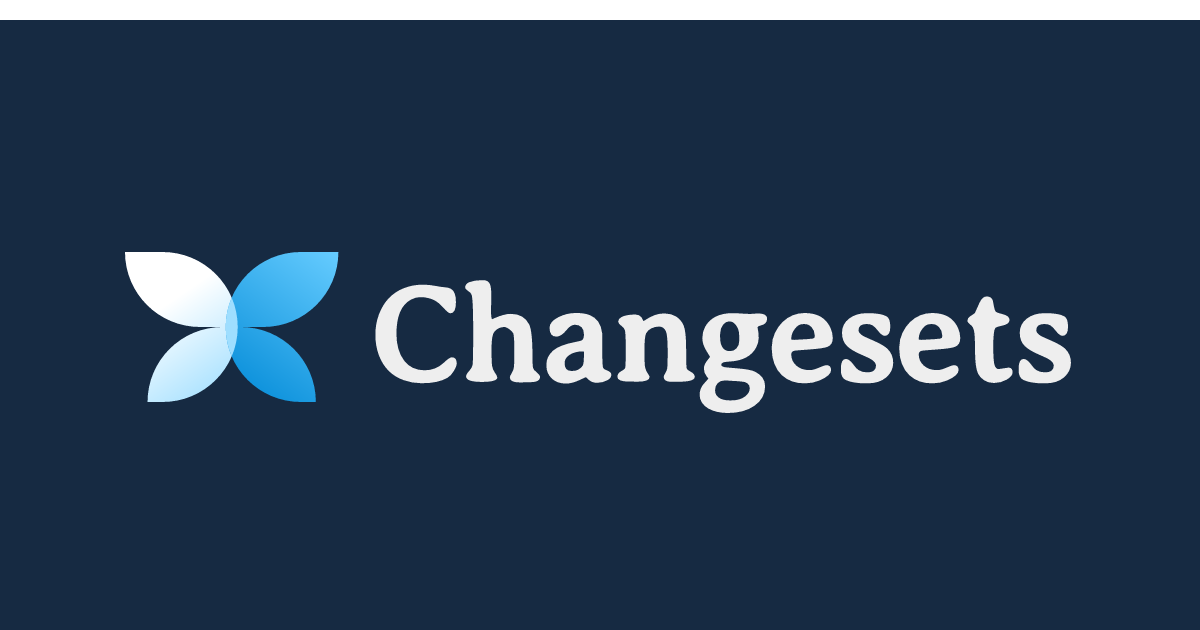
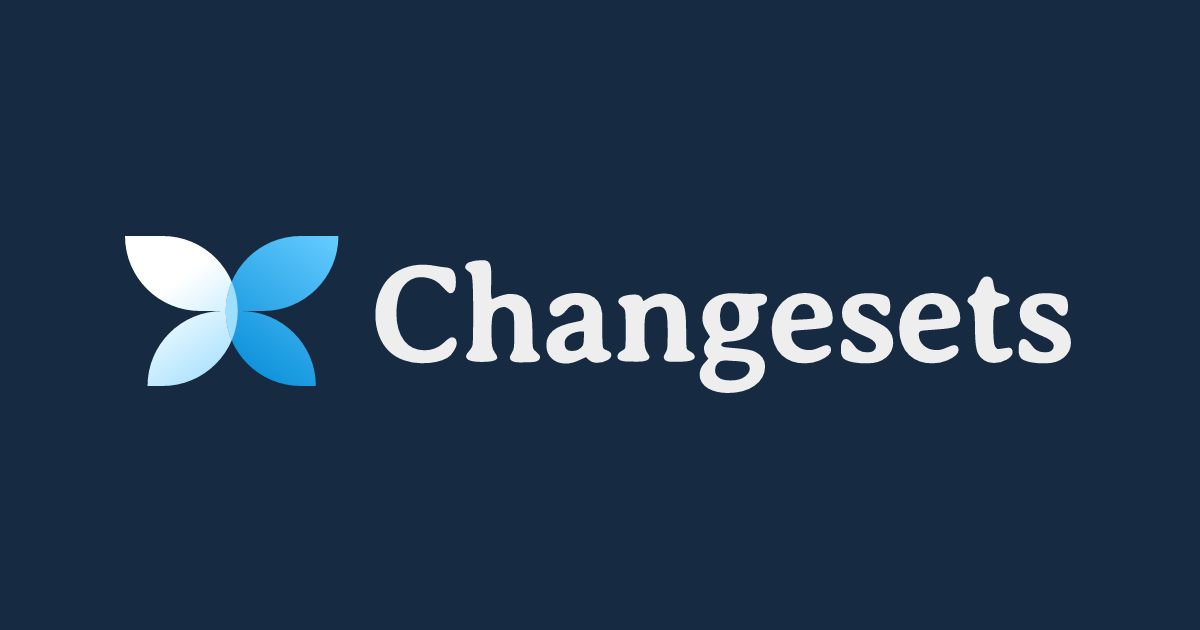
add missed trim

diff --git a/site/scripts/generate-og.ts b/site/scripts/generate-og.ts
@@ -76,14 +76,14 @@ async function generateWebsiteOgImage() {
   const template = `
     <div tw="flex size-full items-center justify-center gap-8 bg-[#162a42] text-[#eee]">
       <img
-        tw="mb-4"
+        tw="mb-2"
         height="150"
         src="https://raw.githubusercontent.com/changesets/changesets/refs/heads/main/assets/images/changesets-icon-dark.svg"
       />
       
       <div tw="text-[8.5em] font-bold">Changesets</div>
     </div>
-  `;
+  `.trim();
 
   const buffer = await generateOgImage(template);
   await fs.writeFile(ogImagePath, buffer);
